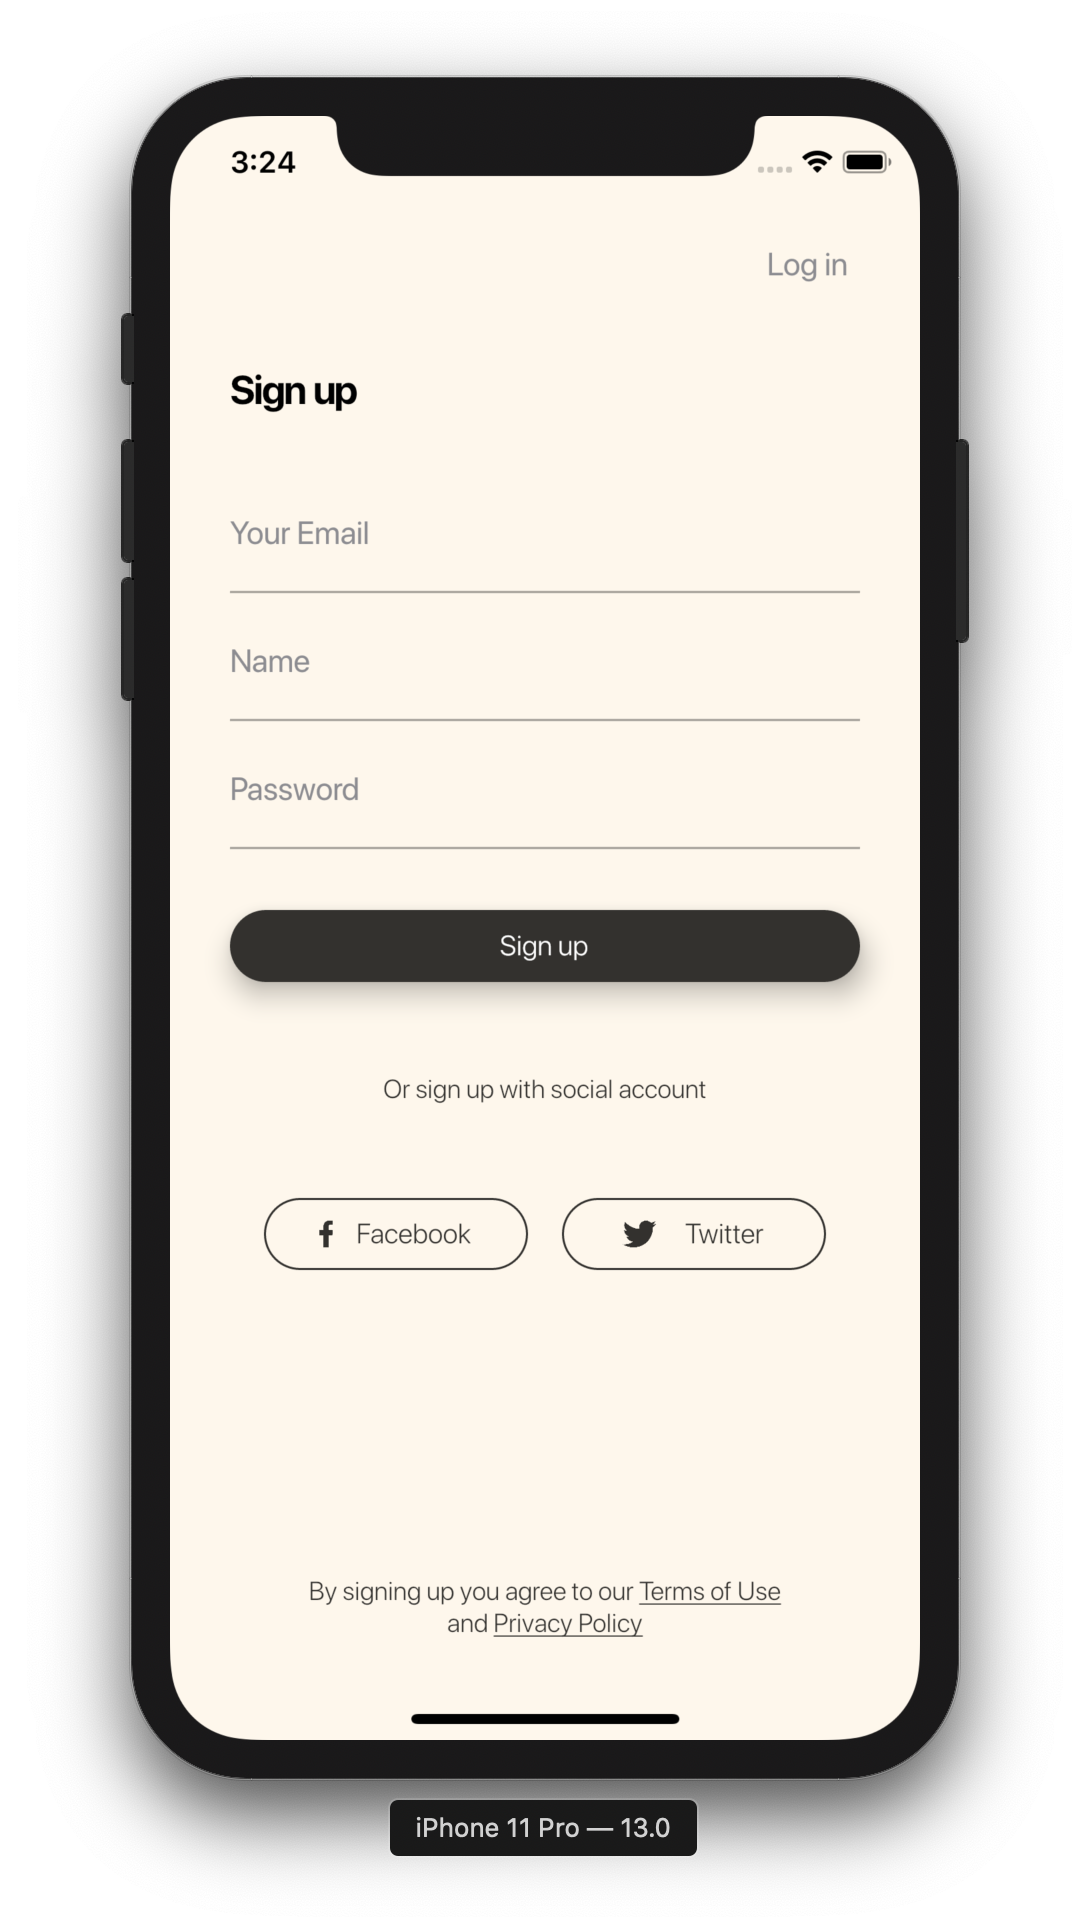
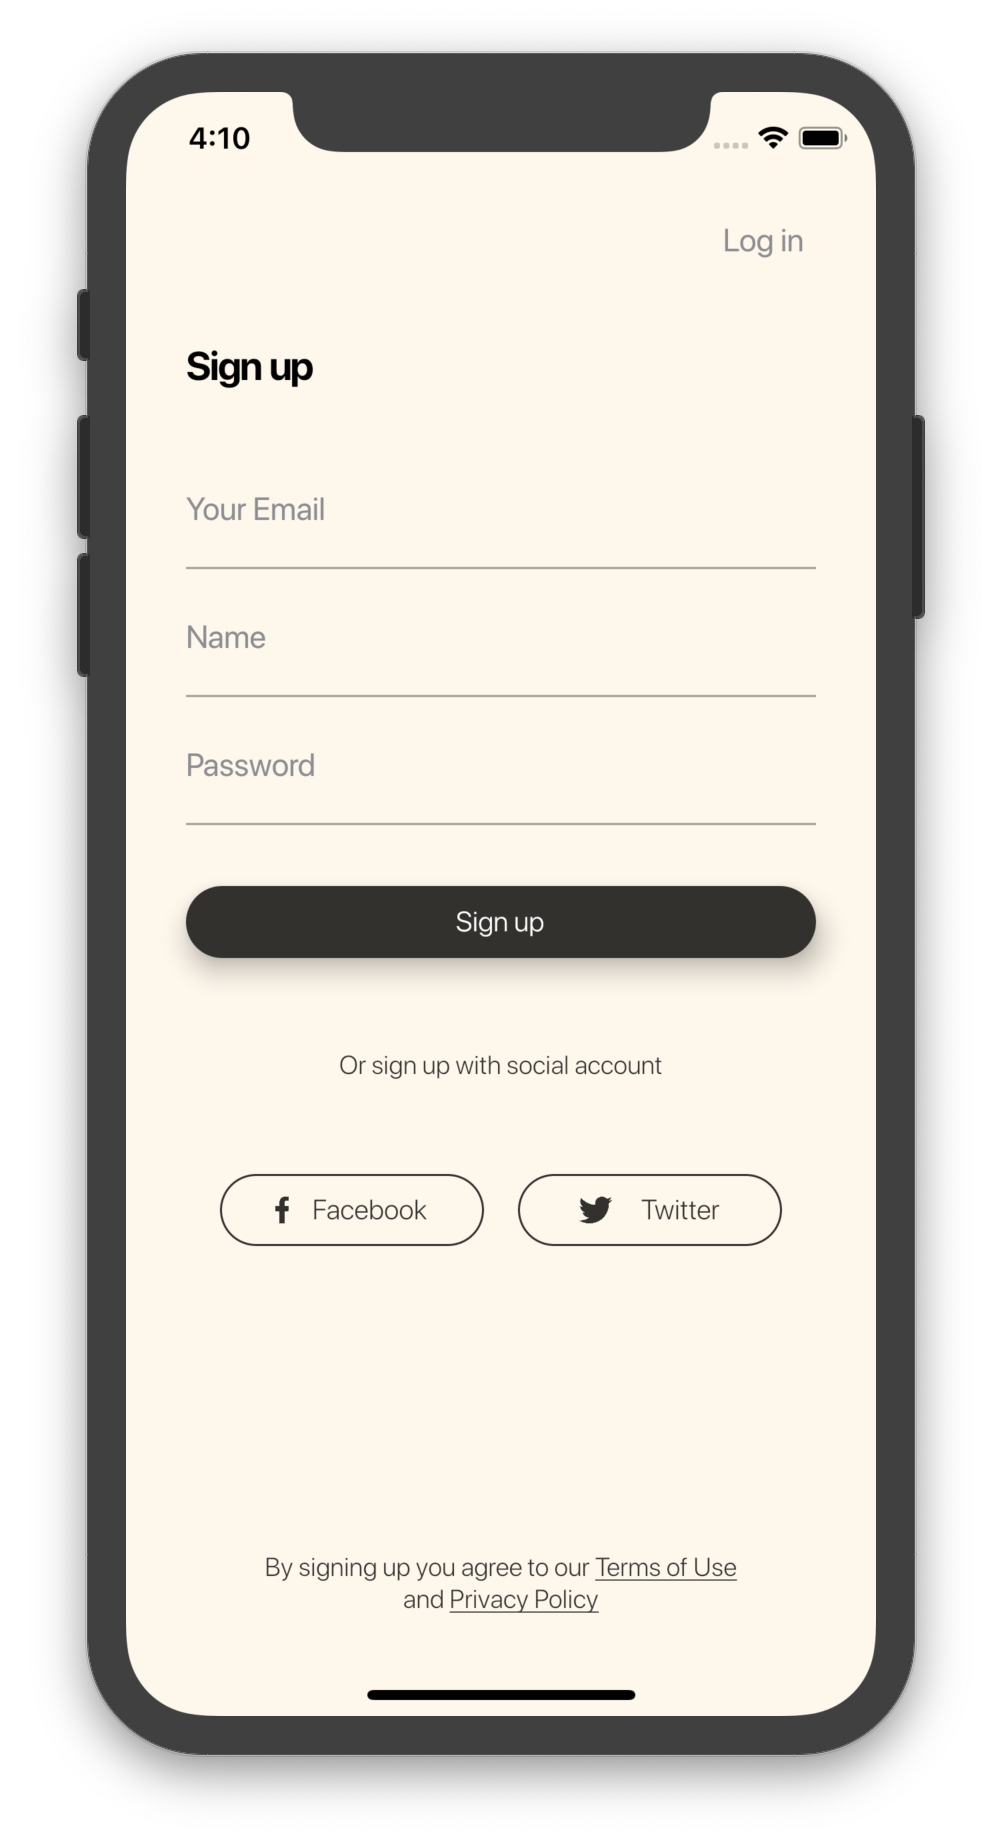
updates: - added new signup screenshot image - updating README.md

diff --git a/README.md b/README.md
@@ -5,8 +5,7 @@ A Flutter project based on a minimalist log in sign up UI design by https:&#x2F;
 Matthew Hansen  
 github.com/mjhansen3
 
-![Log in screen|150x250](https://github.com/mjhansen3/flutter_challenge_01/blob/master/screenshots/login.png) &nbsp;&nbsp;&nbsp;&nbsp;&nbsp;&nbsp;&nbsp;&nbsp;&nbsp;&nbsp;&nbsp;&nbsp;&nbsp;&nbsp;&nbsp; ![Sign up screen|150x250](https://github.com/mjhansen3/flutter_challenge_01/blob/master/screenshots/signup.png)  
-<img src="https://github.com/mjhansen3/flutter_challenge_01/blob/master/screenshots/login.png" width="250" height="450"> &nbsp;&nbsp;&nbsp;&nbsp;&nbsp;&nbsp;&nbsp;&nbsp;&nbsp;&nbsp;&nbsp;&nbsp;&nbsp;&nbsp;&nbsp; <img src="https://github.com/mjhansen3/flutter_challenge_01/blob/master/screenshots/signup.png" width="250" height="450">
+<img src="https://github.com/mjhansen3/flutter_challenge_01/blob/master/screenshots/login.png" width="250" height="450" alt="Log in screen"> &nbsp;&nbsp;&nbsp;&nbsp;&nbsp;&nbsp;&nbsp;&nbsp;&nbsp;&nbsp;&nbsp;&nbsp;&nbsp;&nbsp;&nbsp; <img src="https://github.com/mjhansen3/flutter_challenge_01/blob/master/screenshots/signup.png" width="250" height="450" alt="Sign up screen">
 
 ## Actual Design
 
